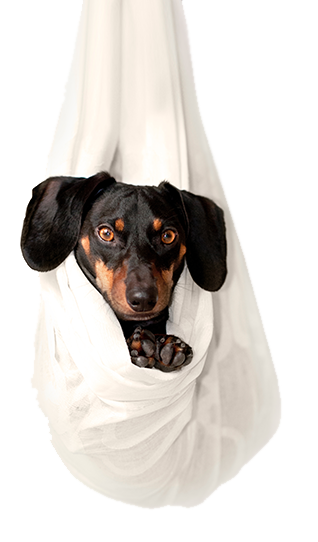
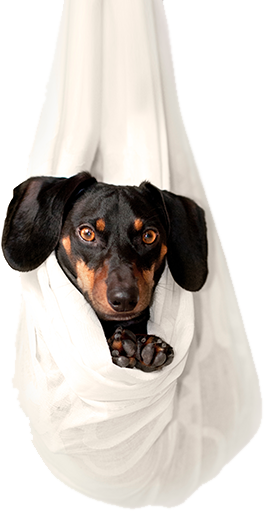
dog

diff --git a/index.html b/index.html
@@ -10,28 +10,30 @@
 </head>
 <div class="container">
 	<body>
-		<header>
-			<div class="logo-img">
-				<img src="images/epixx_pets_logo.png" alt="логотип">
-			</div>
-			<div class="header-right">
-				<nav>
-					<ul>
-						<li class="nav-item"><a class="nav-link" href="#about-us">О питомнике</a></li>
-						<li class="nav-item"><a class="nav-link" href="#breeds">Животные</a></li>
-						<li class="nav-item"><a class="nav-link" href="#reviews">Отзывы</a></li>
-						<li class="nav-item"><a class="nav-link" href="#all-about-pets">Блог</a></li>
-						<li class="nav-item"><a class="nav-link" href="#contacts">Контакты</a></li>
-					</ul>
-				</nav>
-				<a class='phone' href="tel:+79252569877">+7 (925) 256 98 77</a>
-			</div>
-		</header>
+		<div class="wrapper">
+			<header>
+				<div class="logo-img">
+					<img src="images/epixx_pets_logo.png" alt="логотип">
+				</div>
+				<div class="header-right">
+					<nav>
+						<ul>
+							<li class="nav-item"><a class="nav-link" href="#about-us">О питомнике</a></li>
+							<li class="nav-item"><a class="nav-link" href="#breeds">Животные</a></li>
+							<li class="nav-item"><a class="nav-link" href="#reviews">Отзывы</a></li>
+							<li class="nav-item"><a class="nav-link" href="#all-about-pets">Блог</a></li>
+							<li class="nav-item"><a class="nav-link" href="#contacts">Контакты</a></li>
+						</ul>
+					</nav>
+					<a class='phone' href="tel:+79252569877">+7 (925) 256 98 77</a>
+				</div>
+			</header>
+				<section class="promo">
+					<h1>Питомник породистых животных рядом с&nbsp;вашим домом</h1>
+						<p class="text-with-border">Животные как дети&nbsp;&mdash; им&nbsp;нужны&nbsp;мы.</p>
+				</section>
+		</div>
 		<main>
-			<section class="promo">
-				<h1>Питомник породистых животных рядом с&nbsp;вашим домом</h1>
-		        <p class="text-with-border">Животные как дети&nbsp;&mdash; им&nbsp;нужны&nbsp;мы.</p>
-			</section>
 			<section class="about-us" id="about-us">
 				<div class="h2-text-about-us">
 					<h2 class="h2-in-dark">О питомнике</h2>

diff --git a/style/style.css b/style/style.css
@@ -10,7 +10,7 @@ font-family: 'Roboto', Arial, sans-serif;*/
 header {
 	display: flex;
 	justify-content: space-between;
-	padding: 10px 42px;
+	padding: 10px 0;
 	align-items: center;
 }
 
@@ -65,9 +65,12 @@ section {
 .container {
 	width: 1024px;
 	margin: 0 auto;
+}
+
+.wrapper {
+	margin: 0 42px;
 	background-image: url(../images/dog.png);
 	background-repeat: no-repeat;
-
 }
 
 .logo-img {
@@ -79,7 +82,6 @@ section {
 	display: flex;
 	align-items: center;
 	justify-content: space-between;
-
 }
 
 .phone {
